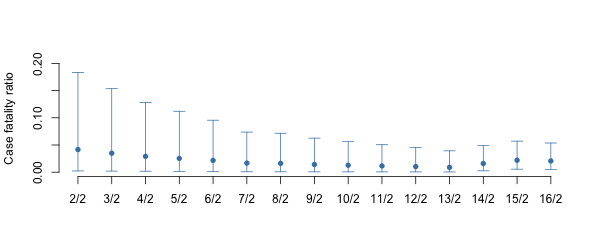
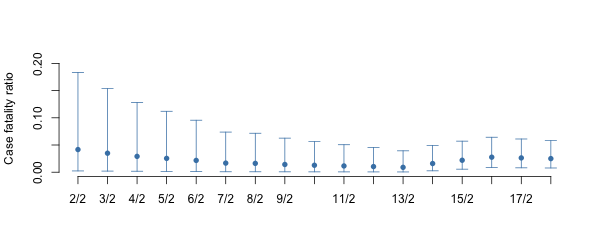
Updated WHO Situation Reports

diff --git a/README.md b/README.md
@@ -1,10 +1,10 @@
 # Estimating case fatality ratio of COVID-19 from observed cases outside China
 
-*Updated report: 16 February 2020*
+*Updated report: 18 February 2020*
 
 Christian L. Althaus (christian.althaus@ispm.unibe.ch), Institute of Social and Preventive Medicine, University of Bern, Bern, Switzerland
 
-**Summary: We provide a preliminary estimate of the overall case fatality ratio (CFR) of COVID-19 at 2.1% (95% confidence interval: 0.5%-5.4%).**
+**Summary: We provide a preliminary estimate of the overall case fatality ratio (CFR) of COVID-19 at 2.5% (95% confidence interval: 0.8%-5.8%).**
 
 COVID-19 has spread rapidly in China with a basic reproduction number of 2.2 (90% high density interval: 1.4-3.8) and a doubling time of around one week during the early phase of the epidemic (1,2). To date, uncertainty remains regarding the case fatality ratio (CFR) of COVID-19. Naive estimates of CFR from the reported numbers of confirmed cases and deaths are difficult to interpret due to the possible underascertainment of mild cases and the right-censoring of cases with respect to the time delay from illness onset to death (3). We argue that reported COVID-19 cases and deaths outside China are less prone to bias and could provide more precise estimates of the absolute CFR (Figure 1, Table 1).
 
@@ -19,7 +19,7 @@ Date | Country | Sex | Age | Comorbidities | Notes | Source
 1 Feb 2020 | Philippines | Male | 44 y | *Streptococcus pneumoniae* and *influenza B virus* | Included | [Link](https://www.theguardian.com/global-development/2020/feb/02/coronavirus-deaths-hong-kong-health-workers-to-strike-china-border-)
 13 Feb 2020 | France | Male | 80 y | - | Included | [Link](https://www.theguardian.com/world/2020/feb/15/chinese-tourist-in-france-becomes-europes-first-coronavirus-fatality)
 14 Feb 2020 | Japan | Female | 80+ y | - | Included | [Link](https://www.theguardian.com/world/2020/feb/13/japan-reports-first-coronavirus-death-as-44-more-cases-confirmed-aboard-cruise-ship)
-15 Feb 2020 | Taiwan | Male | 61 y | *Hepatitis B virus* and diabetes | Not yet included | [Link](https://www.theguardian.com/world/2020/feb/16/taiwan-reports-first-death-from-coronavirus)
+15 Feb 2020 | Taiwan | Male | 61 y | *Hepatitis B virus* and diabetes | Included | [Link](https://www.theguardian.com/world/2020/feb/16/taiwan-reports-first-death-from-coronavirus)
 
 First, we collect COVID-19 cases and deaths outside China from [WHO](https://www.who.int/emergencies/diseases/novel-coronavirus-2019/situation-reports/), [ECDC](https://www.ecdc.europa.eu/en/novel-coronavirus-china) and international media (Figure 1, Table 1). We then model the expected incidence of death due to COVID-19 given the CFR. To this end, we assume that the time from onset to death follows a gamma distribution with a mean of 15.1 days and a shape parameter of 5.1 (Figure 2) (4). Finally, we use a maximum-likelihood framework to estimate CFR by fitting the model to the data assuming the observed numbers of deaths are Poisson distributed (see `R` code file [`ncov_cfr.R`](ncov_cfr.R)).
 
@@ -27,7 +27,7 @@ First, we collect COVID-19 cases and deaths outside China from [WHO](https://www
 
 **Figure 2. Probability distribution of time from onset of COVID-19 symptoms to death.** The distribution is based on publicly available data collected by Linton et al. (4). Dashed and dotted lines corresond to the mean (15.1 days) and median (14.1 days).
 
-We estimate the CFR of COVID-19 at 2.1% (95% confidence interval: 0.5%-5.4%). Due to the small number of deaths, the uncertainty around this estimate remains wide. Increasing numbers of cases and deaths outside China will increase the precision of the estimate (Figure 3). Furthermore, the estimate could represent an upper bound because information on date of onset of symptoms is not available for all reported cases and asymptomatic cases are not included.
+We estimate the CFR of COVID-19 at 2.5% (95% confidence interval: 0.8%-5.8%). Due to the small number of deaths, the uncertainty around this estimate remains wide. Increasing numbers of cases and deaths outside China will increase the precision of the estimate (Figure 3). Furthermore, the estimate could represent an upper bound because information on date of onset of symptoms is not available for all reported cases and asymptomatic cases are not included.
 
 ![](figures/ncov_cfr.png)
 
